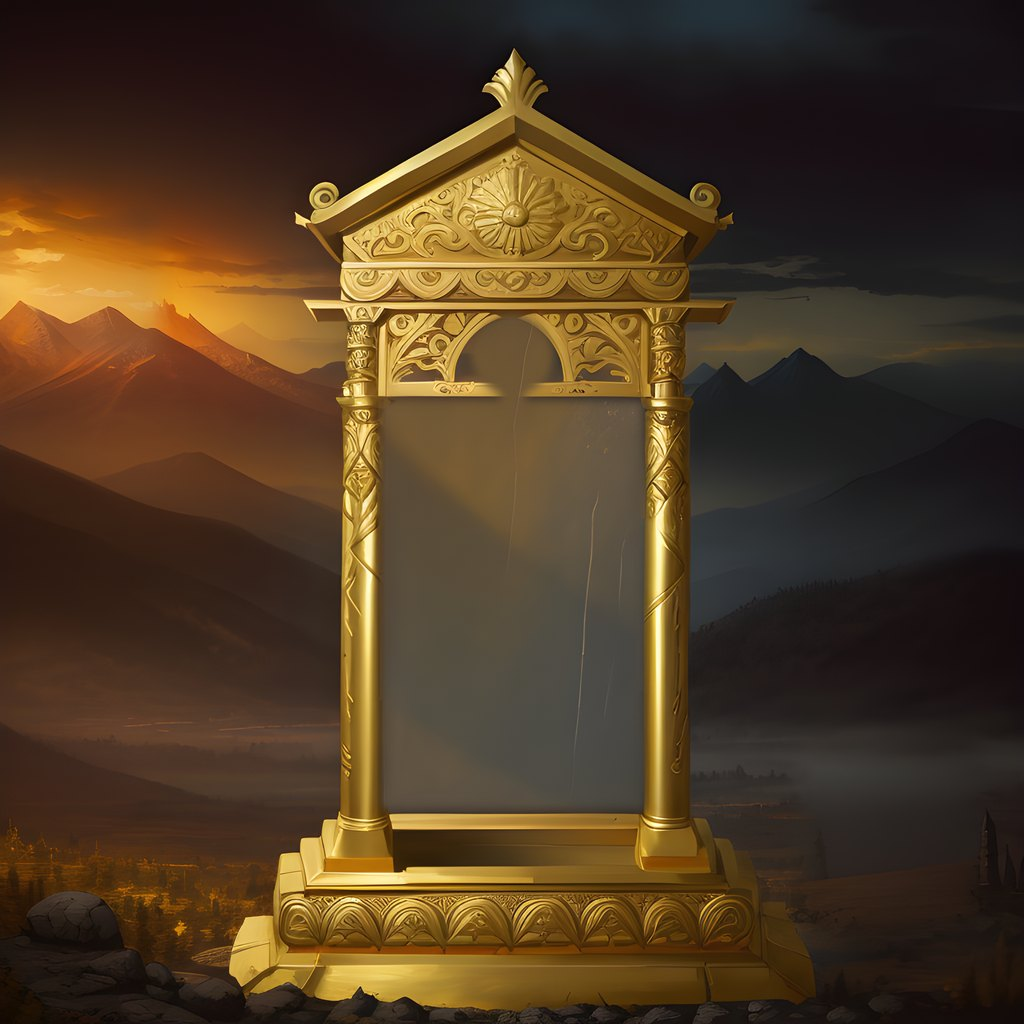
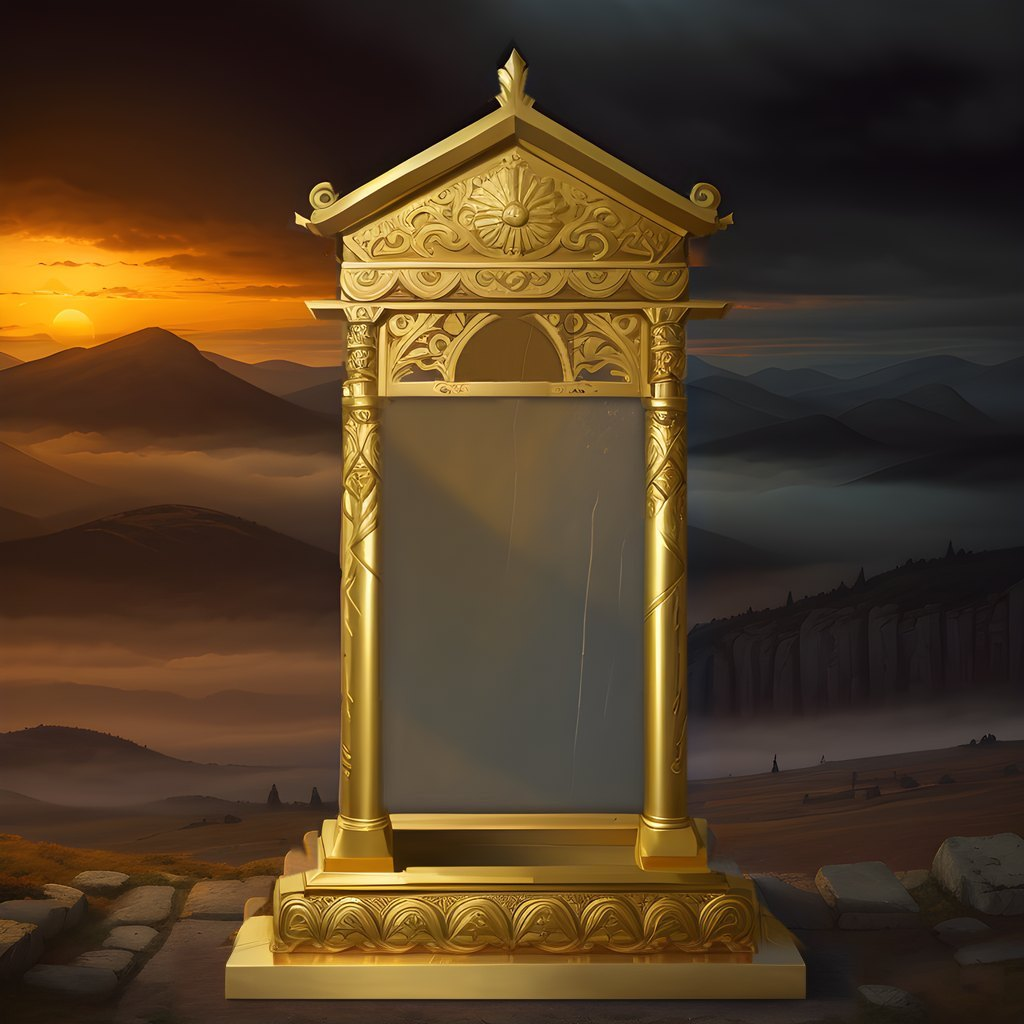
1.0.2: repaired gilded stele with the emblem in the arch's niche; certificate year is the victory turn's

diff --git a/android/src/com/unciv/app/CertificateImage.kt b/android/src/com/unciv/app/CertificateImage.kt
@@ -33,6 +33,11 @@ class CertificateImage(private val assets: AssetManager) {
         const val MEDAL_X = 512f
         const val MEDAL_Y = 355f
         const val MEDAL_R = 36f
+        /** On the gilded stele the emblem sits in the arch's niche, above the rail it would
+         *  otherwise overlap; the largest size that keeps every nation's emblem (India and Japan
+         *  are the widest) at least 2 px off the arch's frame (09-28). */
+        const val MEDAL_Y_ANCHORED = 346f
+        const val MEDAL_R_ANCHORED = 30f
         /** Gilded letters; the civilisation, the victory and the emblem are the brighter gold. */
         val GOLD = Color.rgb(206, 160, 78)
         val GOLD_BRIGHT = Color.rgb(240, 200, 118)
@@ -55,27 +60,29 @@ class CertificateImage(private val assets: AssetManager) {
     )
 
     /** The finished certificate as a JPEG small enough for the free upload tier. [anchored] draws
-     *  on the anchored stele - the same painting with a gold glow, geometry unchanged, so the
-     *  layout below fits both (ROADMAP "Provenance") - or the plain one while it is not painted. */
+     *  on the anchored stele - the same painting gilded, its tablet unchanged, so the inscription's
+     *  layout fits both (ROADMAP "Provenance"); only the emblem moves up into the arch - or the
+     *  plain one while it is not painted. */
     fun render(lines: List<VictoryCertificate.InscriptionLine>, emblem: CertificateEmblem, anchored: Boolean): ByteArray {
-        val file = if (anchored && "stele_anchored.jpg" in (assets.list("certificate") ?: emptyArray()))
-            "certificate/stele_anchored.jpg" else "certificate/stele.jpg"
+        val gilded = anchored && "stele_anchored.jpg" in (assets.list("certificate") ?: emptyArray())
+        val file = if (gilded) "certificate/stele_anchored.jpg" else "certificate/stele.jpg"
         val base = assets.open(file).use { BitmapFactory.decodeStream(it) }
         val bitmap = base.copy(Bitmap.Config.ARGB_8888, true)
         base.recycle()
         val canvas = Canvas(bitmap)
-        drawEmblem(canvas, emblem)
+        if (gilded) drawEmblem(canvas, emblem, MEDAL_Y_ANCHORED, MEDAL_R_ANCHORED)
+        else drawEmblem(canvas, emblem, MEDAL_Y, MEDAL_R)
         drawInscription(canvas, lines)
         return encode(bitmap).also { bitmap.recycle() }
     }
 
     /** The nation's icon inlaid in gold, like the letters. A mod's nation has no bundled icon;
      *  its tablet then carries the inscription alone. (The emblem's colours stay in the metadata.) */
-    private fun drawEmblem(canvas: Canvas, emblem: CertificateEmblem) {
+    private fun drawEmblem(canvas: Canvas, emblem: CertificateEmblem, medalY: Float, medalR: Float) {
         val icon = try {
             assets.open("certificate/emblems/${emblem.nation}.png").use { BitmapFactory.decodeStream(it) }
         } catch (_: Exception) { null } ?: return
-        val box = RectF(MEDAL_X - MEDAL_R, MEDAL_Y - MEDAL_R, MEDAL_X + MEDAL_R, MEDAL_Y + MEDAL_R)
+        val box = RectF(MEDAL_X - medalR, medalY - medalR, MEDAL_X + medalR, medalY + medalR)
         fun layer(dx: Float, argb: Int, blur: Float) {
             val paint = Paint(Paint.ANTI_ALIAS_FLAG or Paint.FILTER_BITMAP_FLAG).apply {
                 colorFilter = PorterDuffColorFilter(argb, PorterDuff.Mode.SRC_IN)

diff --git a/core/src/com/unciv/logic/chain/VictoryCertificate.kt b/core/src/com/unciv/logic/chain/VictoryCertificate.kt
@@ -78,7 +78,9 @@ object VictoryCertificate {
             winner = winner.civName,
             victoryType = victory?.victoryType ?: "",
             victoryTurn = victory?.victoryTurn ?: gameInfo.turns,
-            victoryYear = gameInfo.getYear(),
+            // the year of the victory turn, not of the turn it is minted on (09-28: a win on turn
+            // 223 minted on 225 was carved "Turn 223 / 1910 AD")
+            victoryYear = gameInfo.getYear((victory?.victoryTurn ?: gameInfo.turns) - gameInfo.turns),
             difficulty = gameInfo.difficulty,
             gameSpeed = gameInfo.gameParameters.speed,
             rivals = gameInfo.civilizations

diff --git a/buildSrc/src/main/kotlin/BuildConfig.kt b/buildSrc/src/main/kotlin/BuildConfig.kt
@@ -4,8 +4,8 @@ package com.unciv.build
 object BuildConfig {
     /** Display name of this fork, shown as the app name and in store listings */
     const val appName = "Unwrit Ages"
-    const val appCodeNumber = 2
-    const val appVersion = "1.0.1"
+    const val appCodeNumber = 3
+    const val appVersion = "1.0.2"
 
     /** Kotlin/R-class package namespace. Kept as the upstream Unciv package so we don't
      * have to rewrite every source file's `package` declaration and R references. */
